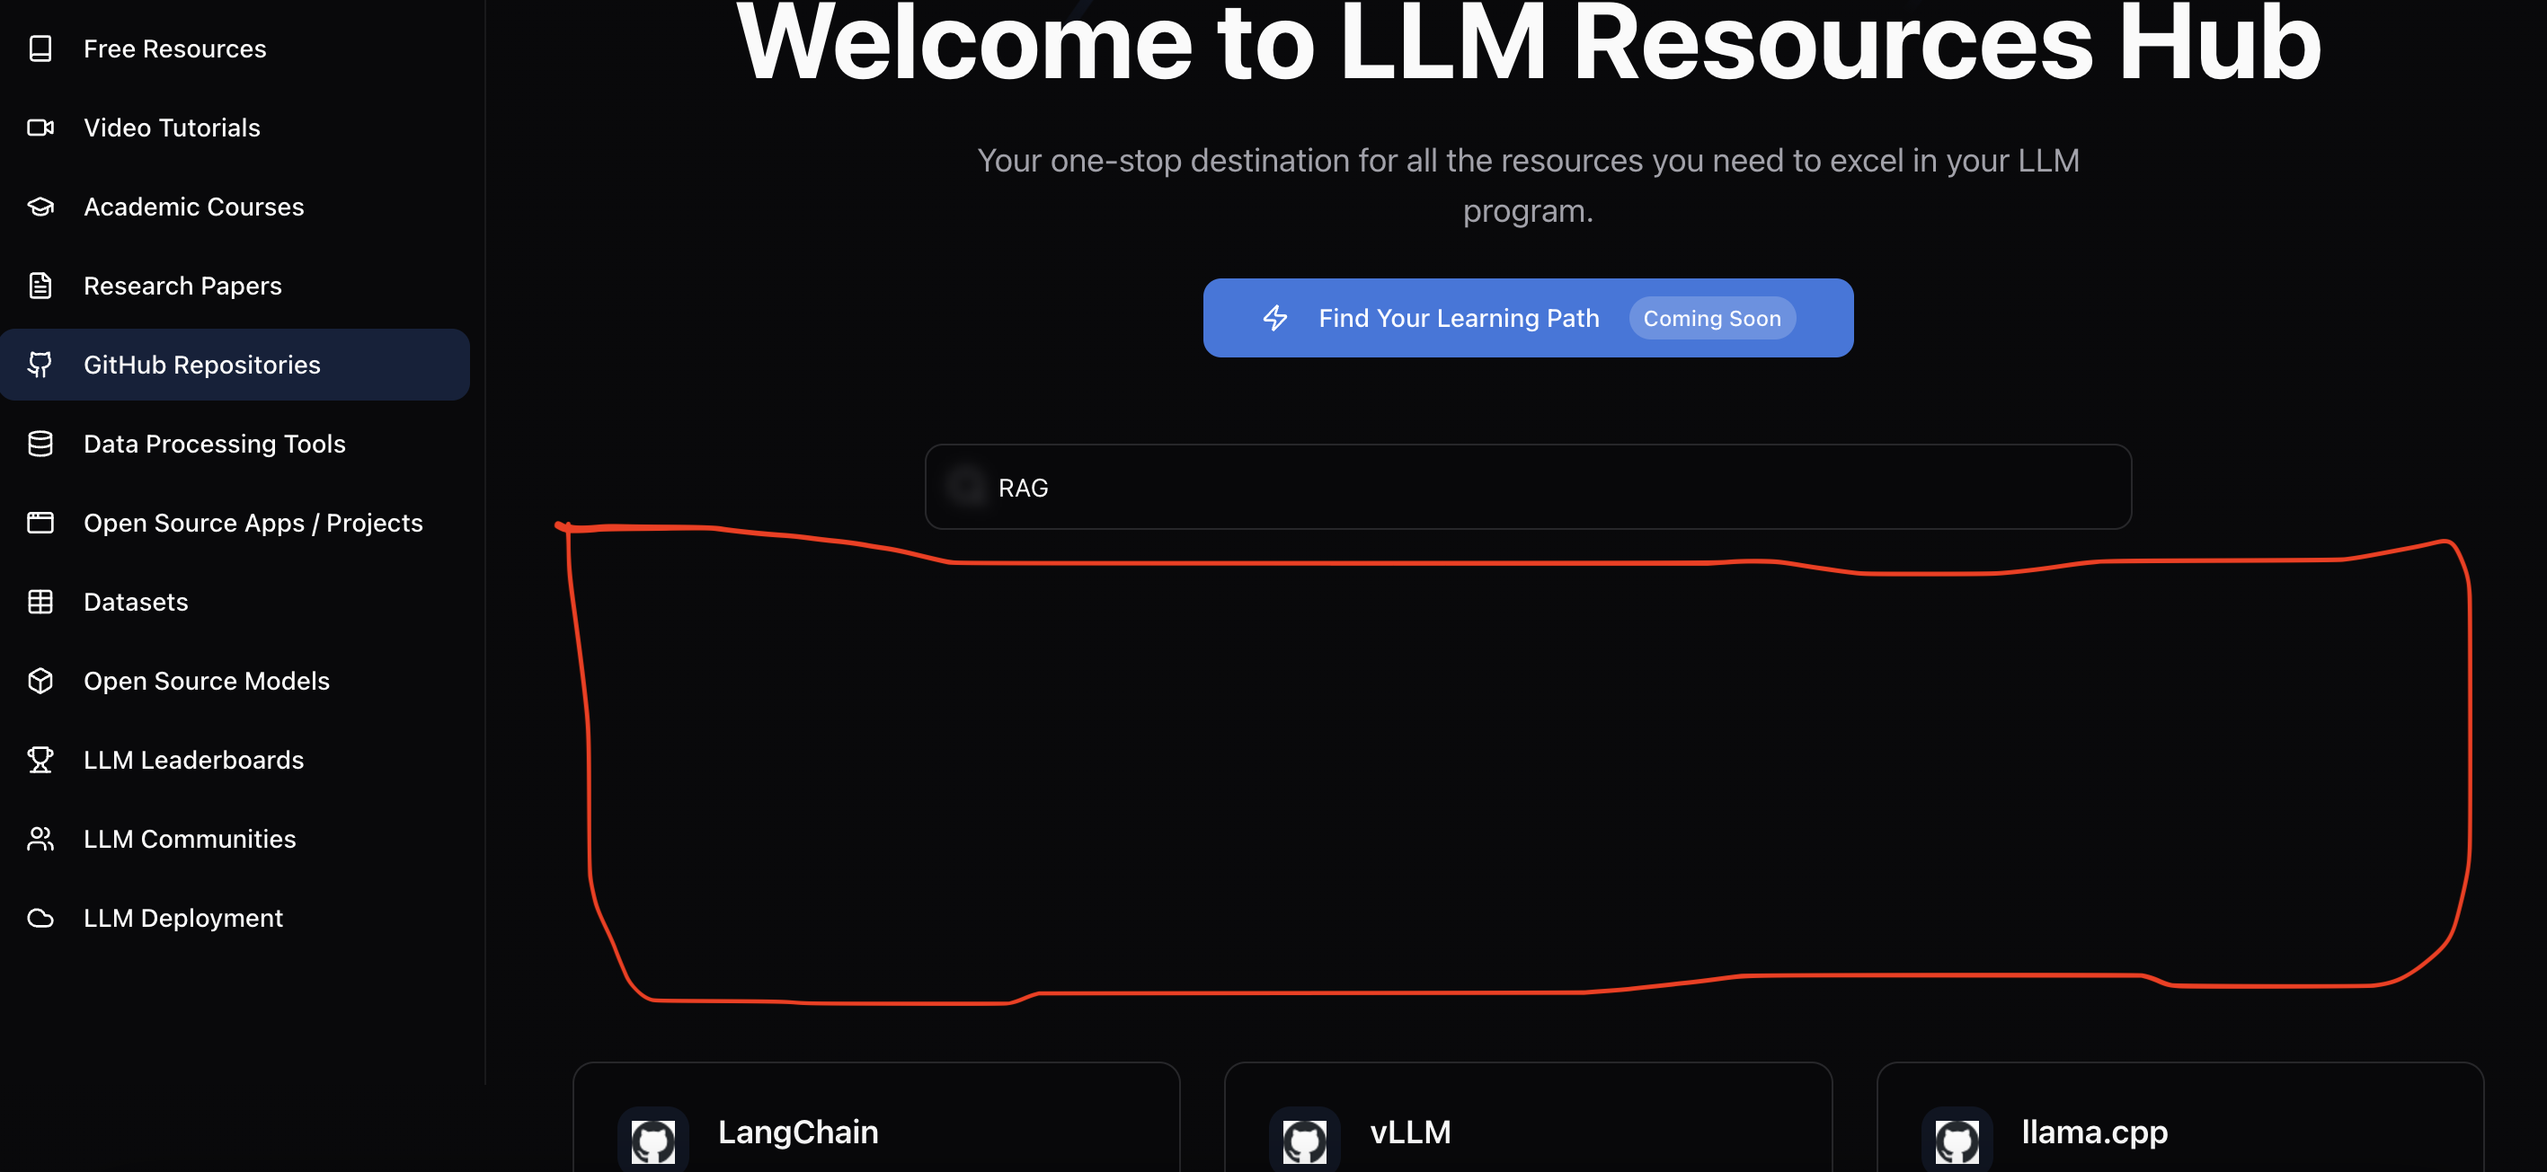
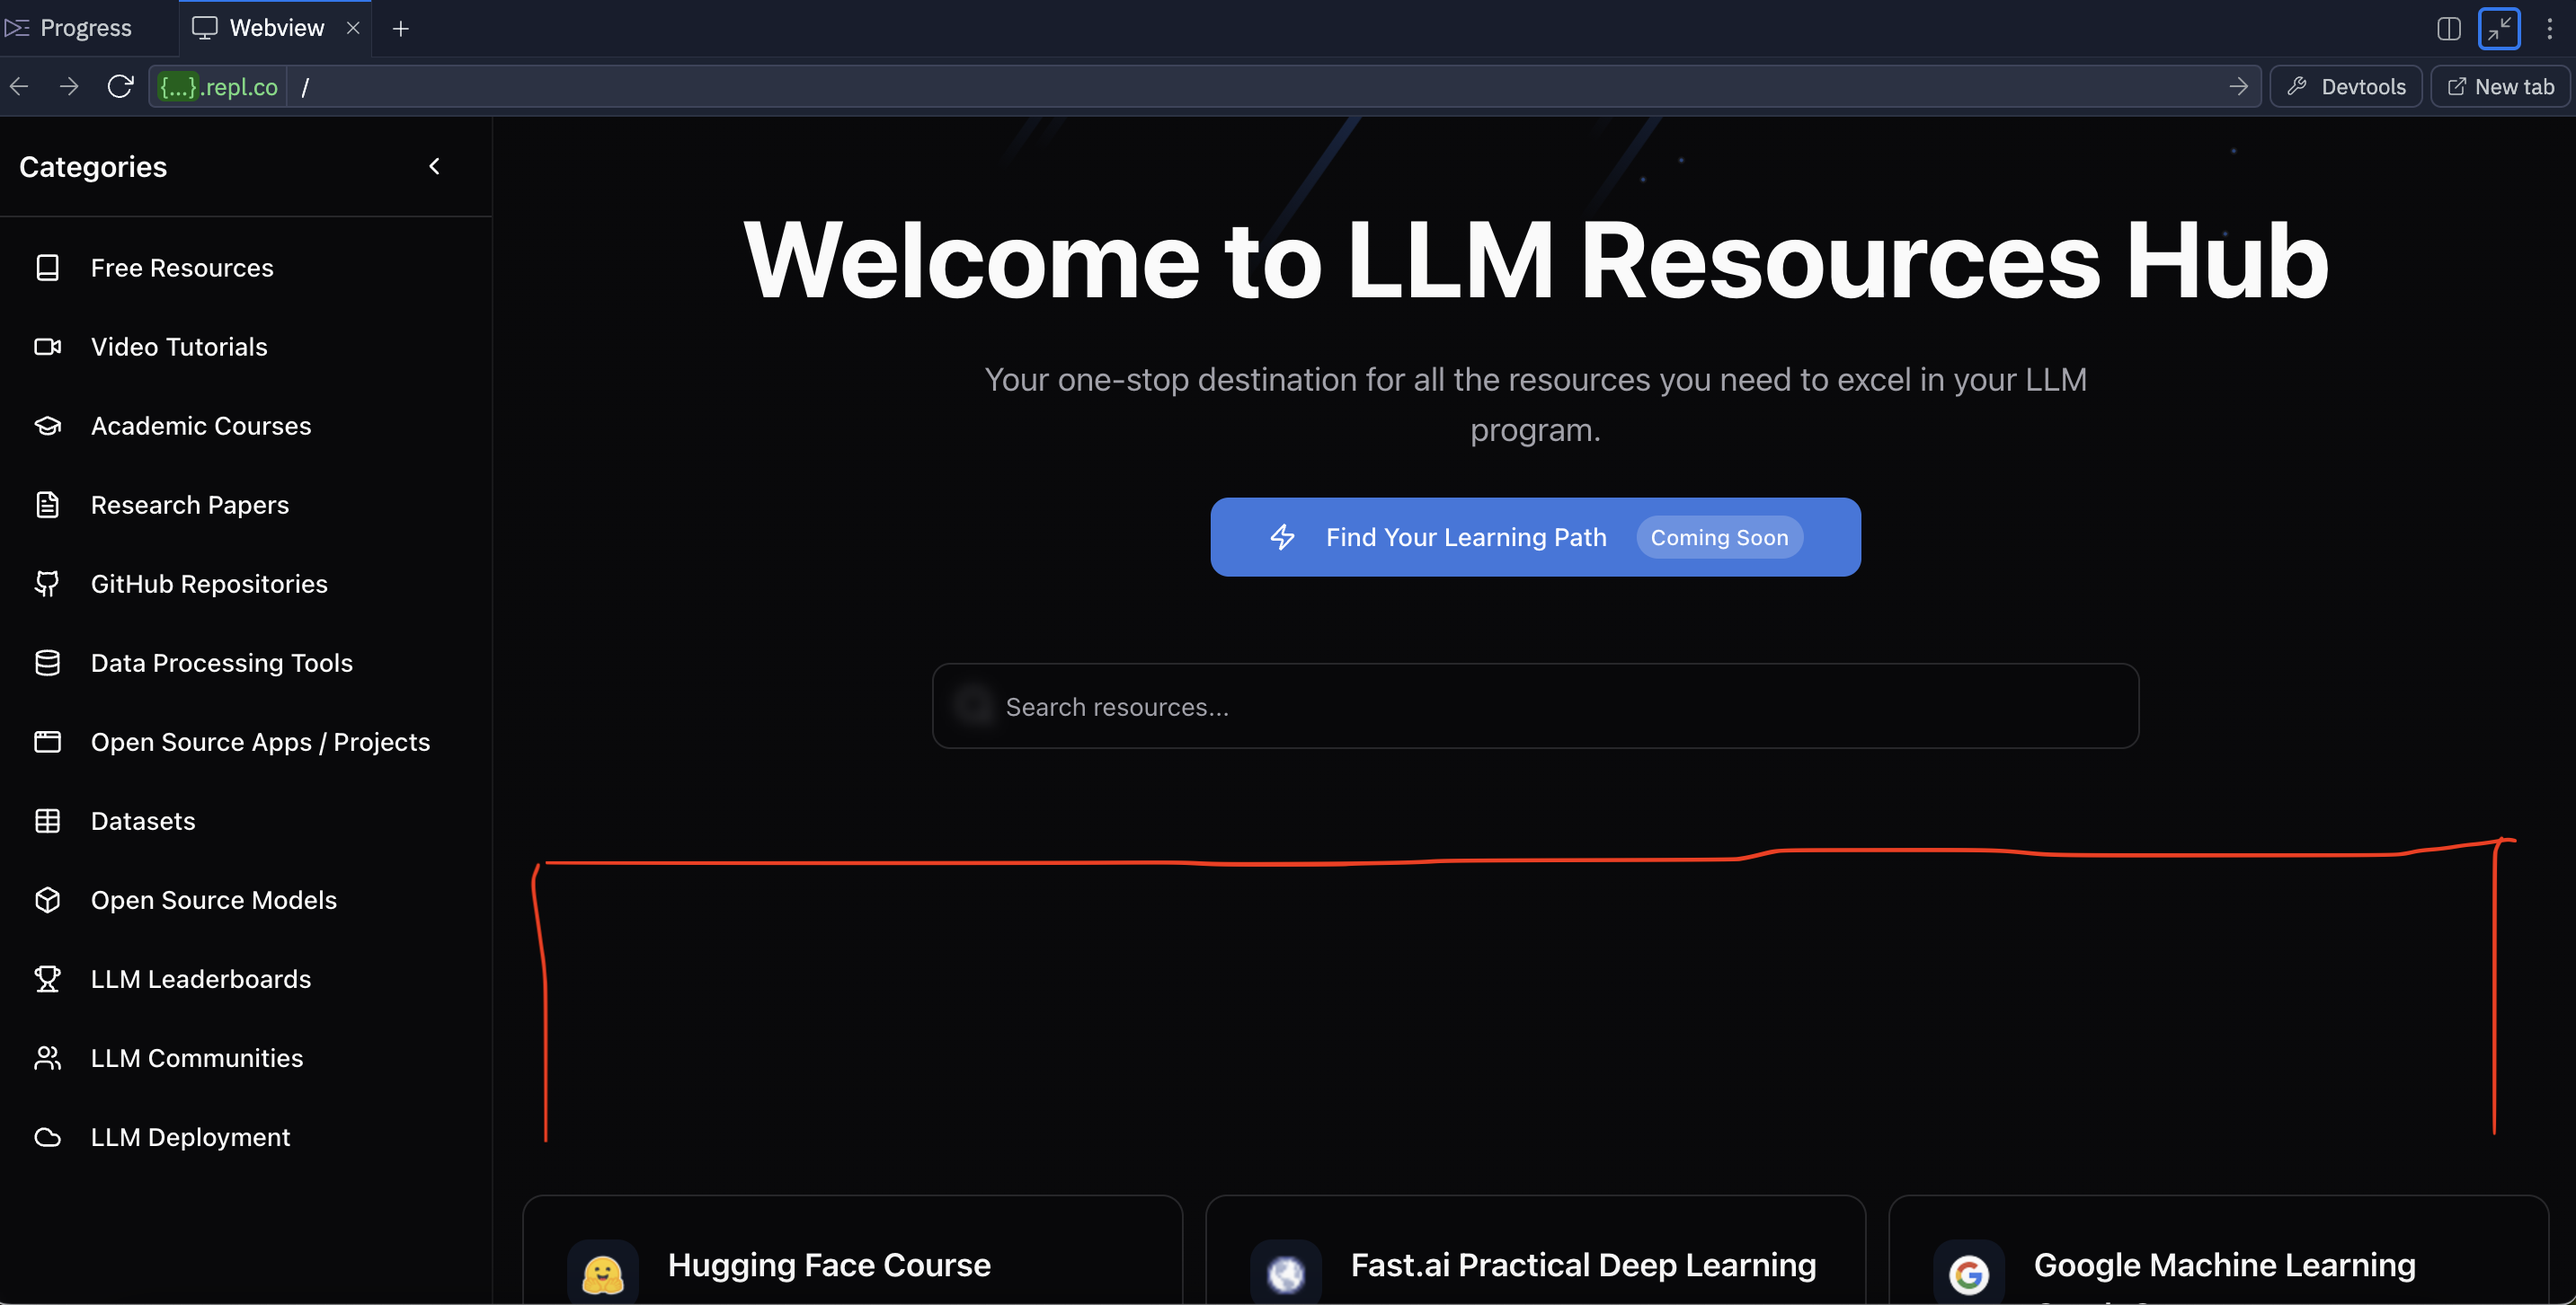
Agent query: Is the layout more compact now with reduced spacing between elements and a shorter hero section?

diff --git a/client/src/pages/Home.tsx b/client/src/pages/Home.tsx
@@ -12,13 +12,13 @@ export const Home = () => {
     <div className="grid grid-cols-[auto,1fr] min-h-screen relative overflow-hidden bg-gradient-to-b from-background via-background to-background/80">
       <SidebarNav className="border-r border-border/50 backdrop-blur-sm" />
       <div className="flex flex-col">
-        <div className="relative h-[600px] overflow-hidden">
+        <div className="relative h-[400px] overflow-hidden">
           <Meteors className="absolute inset-0" />
-          <main className="container mx-auto px-4 py-12 relative z-10">
+          <main className="container mx-auto px-4 py-8 relative z-10">
             <motion.div
               initial={{ opacity: 0, y: 20 }}
               animate={{ opacity: 1, y: 0 }}
-              className="text-center space-y-6 mb-12"
+              className="text-center space-y-4 mb-8"
             >
               <motion.h1
                 initial={{ scale: 0.9 }}

diff --git a/client/src/components/ui/search-bar.tsx b/client/src/components/ui/search-bar.tsx
@@ -42,7 +42,7 @@ export const SearchBar = () => {
           <Search className="absolute left-3 top-1/2 transform -translate-y-1/2 text-muted-foreground" />
         )}
         <Input
-          className="w-full pl-10 pr-4 h-12 bg-background/50 backdrop-blur-sm border-muted"
+          className="w-full pl-8 pr-3 h-10 bg-background/50 backdrop-blur-sm border-muted"
           placeholder="Search resources..."
           value={searchQuery}
           onChange={(e) => setSearchQuery(e.target.value)}

diff --git a/client/src/components/ui/category-grid.tsx b/client/src/components/ui/category-grid.tsx
@@ -90,11 +90,11 @@ export const CategoryGrid = () => {
   });
 
   return (
-    <div className="space-y-2">
+    <div className="space-y-1">
       <motion.div 
         initial={{ opacity: 0 }}
         animate={{ opacity: 1 }}
-        className="grid grid-cols-1 md:grid-cols-2 lg:grid-cols-3 gap-3"
+        className="grid grid-cols-1 md:grid-cols-3 lg:grid-cols-4 gap-2"
       >
         {isLoading ? (
           // Show loading skeletons
